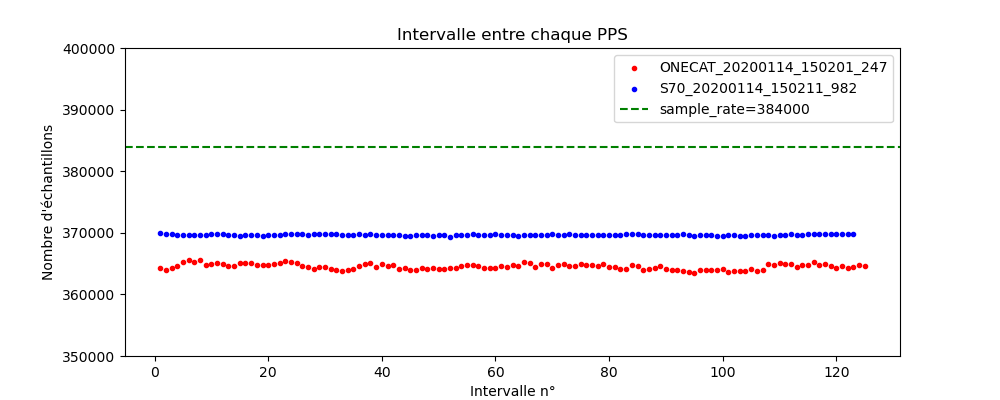
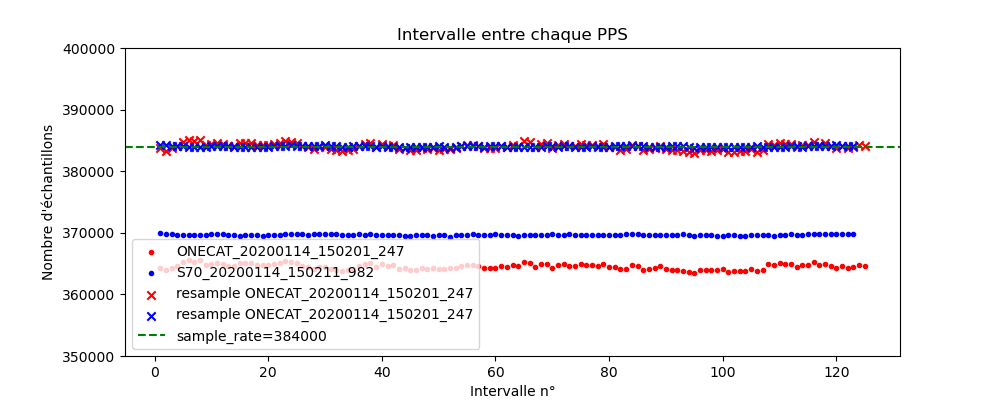
Resampling

diff --git a/main.py b/main.py
@@ -3,12 +3,13 @@ from scipy.signal import find_peaks
 import numpy as np
 import matplotlib.pyplot as plt
 from scipy.signal import correlate
+from scipy.signal import resample
 
 
-audios = ["ONECAT_20200114_150201_247",
-	"S70_20200114_150211_982"]
+audios = ["ONECAT_20200114_150201_247", "S70_20200114_150211_982"]
 
 intervalles = []
+intervalles_resampled = []
 
 for audio in audios :
 	sample_rate, data = wavfile.read("/home/partage/M2IPA/meute/" + audio + ".wav")
@@ -87,15 +88,35 @@ for audio in audios :
 	name = "All PPS : " + audio
 	plt.savefig(name)
 
-	intervalles.append(np.diff(indices_pps))
+	intervalle = np.diff(indices_pps)
+	intervalles.append(intervalle)
+
+	mean_inter = np.mean(intervalle)
+
+	factor = sample_rate / mean_inter
+	print("Facteur de resampling (simple):", factor)
+
+	n_target = int(np.round(n_samples * factor))
+	resampled = resample(canal, n_target)
+
+	corr = correlate(atome, resampled, mode='valid')
+	corr /= np.max(np.abs(corr))
+	indices_pps_resampled, _ = find_peaks(corr, height=seuil_corr)
+
+	intervalles_resampled.append(np.diff(indices_pps_resampled))
+
 
 plt.figure(figsize=(10,4))
 plt.scatter(range(1, len(intervalles[0])+1), intervalles[0], marker='.', color='r', label=audios[0])
 plt.scatter(range(1, len(intervalles[1])+1), intervalles[1], marker='.', color='b', label=audios[1])
+plt.scatter(range(1, len(intervalles_resampled[0])+1), intervalles_resampled[0], marker='x', color='r', label="resample "+audios[0])
+plt.scatter(range(1, len(intervalles_resampled[1])+1), intervalles_resampled[1], marker='x', color='b', label="resample "+audios[0])
+
+
 plt.axhline(y=sample_rate, color='green', linestyle='--', label=f'sample_rate={sample_rate}')
 plt.xlabel("Intervalle n°")
 plt.ylabel("Nombre d'échantillons")
 plt.title("Intervalle entre chaque PPS")
-plt.ylim(bottom=350000, top=400000)  # ordonnée commence à 0
+plt.ylim(bottom=350000, top=400000)
 plt.legend()
 plt.savefig("Intervalles")
